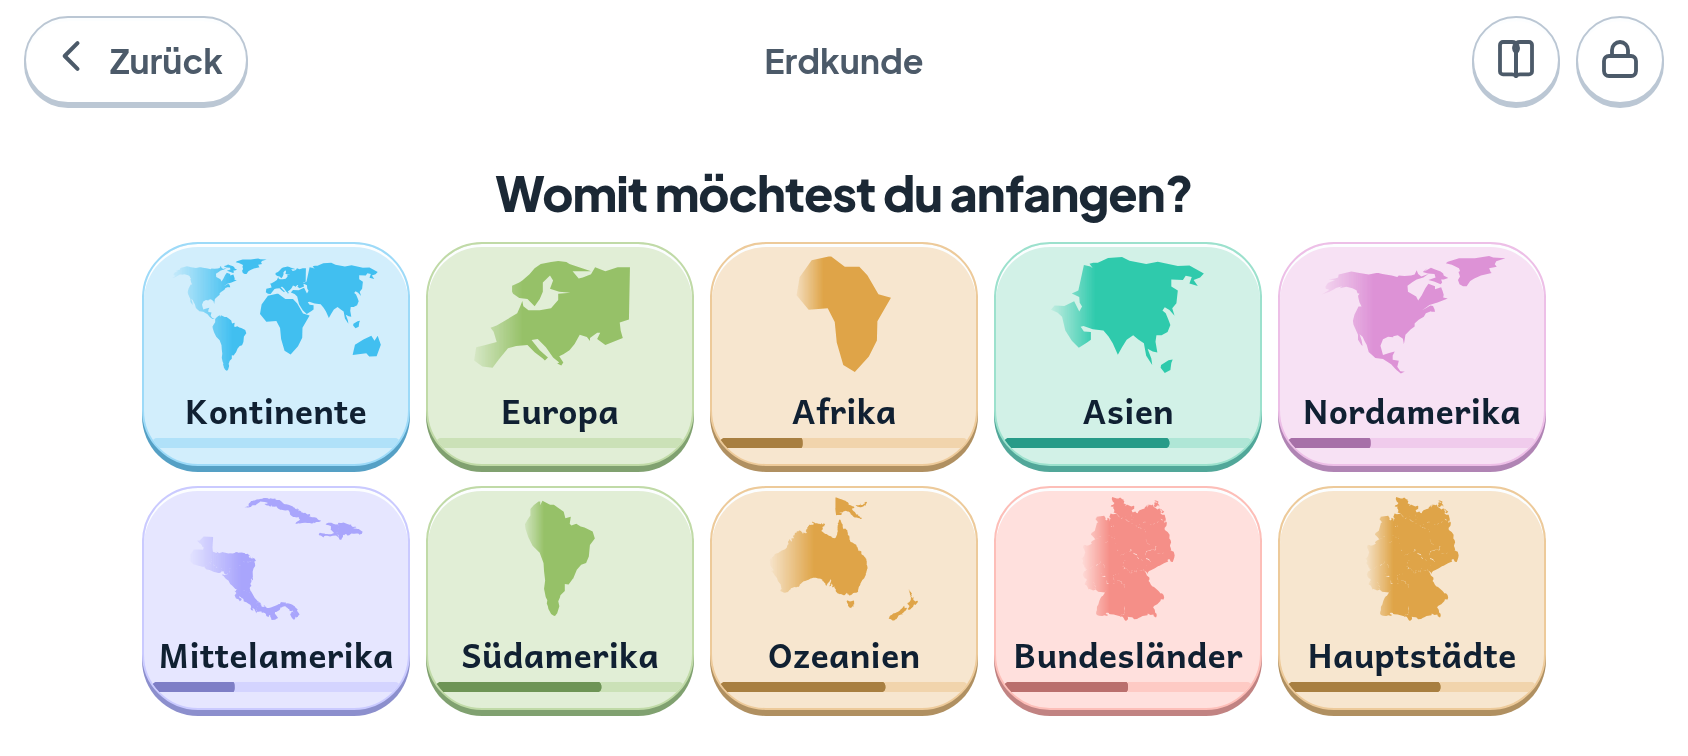
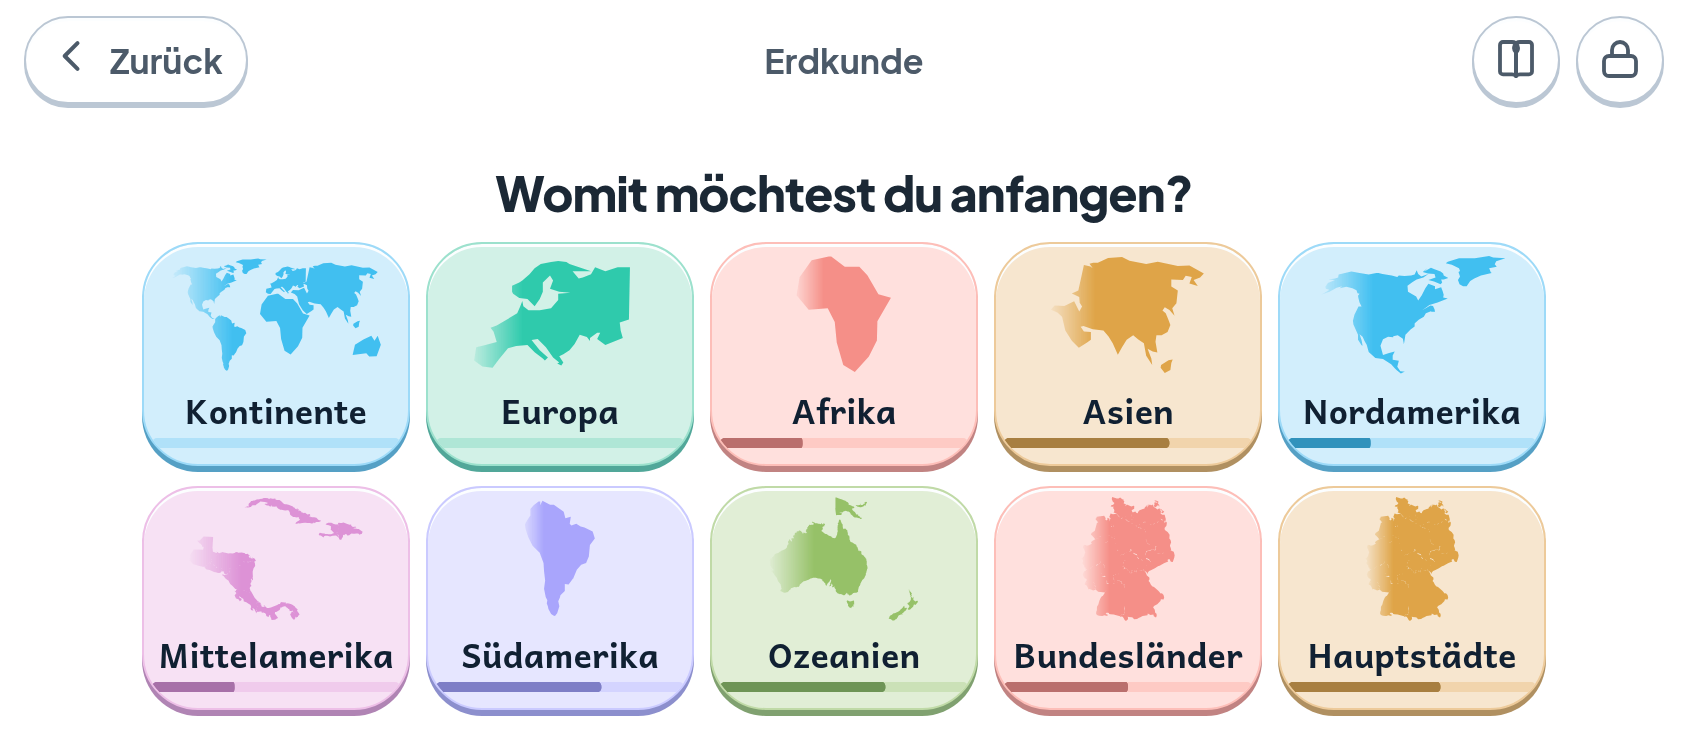
QS-II: der Blick - Kontinentfarben vereinheitlicht, sieben Befunde
Die erste Schleife hat gelesen. Diese hat hingesehen: 37 Aufnahmen aus
tor/vorbilder/ nebeneinandergelegt und nachgemessen. Kein Tor hatte einen
der Befunde je gemeldet, und alle waren gruen - jeder Bildschirm ist fuer
sich in Ordnung. Falsch ist, was ZWISCHEN ihnen steht.

QS8 - EIN KONTINENT HATTE KEINE FARBE. Geflickt.

Die Kachel nahm ihren Ton aus ihrer Position in der Ebenenliste
(`farbe:[3,2,4,7,6][i%5]`), die Weltkarte aus ihrer Position in der
Geometrie (`FL[i%7]`). Zwei Listen, zwei Reihenfolgen, kein Bezug:

  Europa       Kachel gruen     Karte tuerkis
  Afrika       Kachel orange    Karte rot
  Asien        Kachel tuerkis   Karte orange
  Nordamerika  Kachel magenta   Karte blau
  Suedamerika  Kachel gruen     Karte violett
  Australien   Kachel orange    Karte gruen

Sieben von sieben verschieden. Und weil i%5 ueber sieben Eintraege
laeuft, teilten sich zwei Paare einen Ton - Europa und Suedamerika beide
gruen, Afrika und Australien beide orange, auf EINEM Bildschirm
nebeneinander.

Das ist mehr als Kosmetik: eine gleichbleibende Farbe ist ein
Abrufhinweis. Wer "Afrika ist die rote Form" gelernt hat, findet Afrika
auf der Karte wieder - wenn es dort auch rot ist. Sonst hat das Kind
zwei Dinge gelernt statt einem.

KONT_FARBE wird jetzt aus derselben Liste gerechnet, die die Karte
zeichnet. Die Karte gibt den Ton an, nicht die Kachel: sie ist das Bild,
auf das ein Kind am laengsten schaut, und ihre Farben stehen
[…]

diff --git a/prototyp/spiel.js b/prototyp/spiel.js
@@ -876,10 +876,39 @@ const KONT_TITEL = { europa:'Europa', afrika:'Afrika', asien:'Asien',
 // "Südamerika" statt "Länder in Südamerika" - das passt in eine Zeile,
 // bricht nicht mitten im Wort ("Landeshauptstä/dte") und sagt trotzdem,
 // worum es geht. `farbe` gibt jeder Ebene ihren eigenen Ton.
+/* Ein Kontinent hat EINE Farbe - auf der Kachel wie auf der Karte (QS8).
+ *
+ * Bis v358 stand hier `farbe:[3,2,4,7,6][i%5]`: die Kachel bekam ihren Ton
+ * aus ihrer POSITION in der Liste, die Weltkarte aus `FL[i%7]` ueber ihre
+ * eigene, andere Reihenfolge. Ergebnis, nachgemessen: SIEBEN von sieben
+ * Kontinenten hatten auf der Kachel eine andere Farbe als auf der Karte -
+ * und weil `i%5` ueber sieben Eintraege laeuft, teilten sich obendrein
+ * zwei Paare einen Ton (Europa/Suedamerika gruen, Afrika/Australien
+ * orange).
+ *
+ * Warum das mehr ist als Kosmetik: eine gleichbleibende Farbe ist ein
+ * Abrufhinweis. Ein Kind, das „Afrika ist die rote Form" gelernt hat,
+ * findet Afrika auf der Karte wieder - wenn es dort auch rot ist. Ist es
+ * das nicht, hat es zwei Dinge gelernt statt einem.
+ *
+ * Die Karte gibt den Ton an, nicht die Kachel: sie ist das Bild, auf das
+ * ein Kind am laengsten schaut, und ihre Farben stehen nebeneinander (auf
+ * der Kachel steht immer nur eine). Mittelamerika kommt auf der Weltkarte
+ * nicht vor und bekommt den einen Ton, den die sechs anderen frei lassen.
+ *
+ * EINE Quelle, nicht zwei nebeneinander (Regel 6: was zweimal dasteht,
+ * veraltet einmal) - `KONT_FARBE` wird aus derselben Liste gerechnet, die
+ * die Karte zeichnet. Kommt ein Kontinent dazu, wandert seine Kachel von
+ * selbst mit. */
+const KONT_FARBE = Object.fromEntries(
+  D.kontinente.map((k, i) => [k.id, (i % 7) + 1]));
+KONT_FARBE.mittelamerika = KONT_FARBE.mittelamerika
+  ?? [1,2,3,4,5,6,7].find(f => !Object.values(KONT_FARBE).includes(f));
+
 const EBENEN = [
   { id:'kontinente', ueber:'Die Welt', titel:'Kontinente', farbe:5 },
-  ...Object.keys(D.laender).map((k,i)=>({ id:`laender:${k}`, ueber:'Länder in',
-    titel: KONT_TITEL[k] || k, farbe:[3,2,4,7,6][i%5] })),
+  ...Object.keys(D.laender).map((k)=>({ id:`laender:${k}`, ueber:'Länder in',
+    titel: KONT_TITEL[k] || k, farbe: KONT_FARBE[k] })),
   { id:'bundeslaender', ueber:'Deutschland', titel:'Bundesländer',      farbe:1 },
     // "Hauptstädte" statt "Landeshauptstädte": das Wort passt nicht in die
   // Kachel und brach als "Landeshauptstäd/te" um. Die Ueberzeile sagt

diff --git a/docs/Lernkiste-BACKLOG.md b/docs/Lernkiste-BACKLOG.md
@@ -196,7 +196,14 @@ Ein Blick, keine Suche. Die Blöcke darunter sagen, was jeder Punkt ist.
 | 7 | **N2b** Der Klassifikator als Auffangnetz | Fiona | mittel | mittel | echte Züge |
 | 8 | **B3r** Nachbarn · größer/kleiner · Puzzle · Steckbrief | Lea | mittel | mittel | je Form einzeln |
 | 9 | **Q24** „Kontinentumriss" ist eine Zusage | nur ich | gering | mittel | Weg 2 verworfen (Q25) |
-| 10 | **D1** Ein Begleiter | Fiona | mittel | groß | Bilder — also ihr |
+| 10 | **G14** Der Lohn: Treffer und Rundenende bekommen einen Augenblick | Fiona, Lea | **hoch** | mittel | Blick am Gerät |
+| 11 | **G15** Das Forscherbuch füllt seine Seite (37 % leeres Band) | Fiona, Lea | hoch | mittel | — |
+| 12 | **G16** Werkzeugspalte: sechs Elemente, EINE Gestaltungssprache | Fiona, Lea | mittel | mittel | — |
+| 13 | **G17** Die Antwort ist wichtiger als das Mikrofon — Rangfolge drehen | Fiona | mittel | klein | — |
+| 14 | **G18** Keine toten Knöpfe im Lob | alle | gering | klein | — |
+| 15 | **QS9** `ansicht` leert `tor/abweichungen/` vor jedem Lauf | nur ich | mittel | klein | — |
+| 16 | **QS3** „Ton als Gegenstand" braucht ein Tor, sobald Englisch steht | nur ich | mittel | klein | E3 |
+| 17 | **D1** Ein Begleiter | Fiona | mittel | groß | Bilder — also ihr |
 
 **Die Rangliste trägt ab hier NUR NOCH OFFENES.** Bis v352 standen hier
 dreißig Zeilen, davon zwanzig durchgestrichen — und trotzdem zweimal
@@ -3980,3 +3987,149 @@ noetig wurden. Die Torkette ist gruen, `inhalt` (9 Tore), `regeln`,
 `anker`, `doku` ebenfalls. Der Silhouettenbedarf der vierten Welt
 (`silhouette('englisch')`) war im Konzept nicht genannt und steht jetzt
 in § 6 — eine Welt ohne Zeichen waere eine leere Kachel.
+
+---
+
+## QS-II · Der Blick — Spielgefuehl, Layout, Lernwirkung
+
+**Die erste Schleife hat gelesen. Diese hat hingesehen.** 37 Aufnahmen
+aus `tor/vorbilder/`, nebeneinandergelegt und nachgemessen. Kein Tor
+hatte einen der folgenden Befunde je gemeldet, und alle waren gruen:
+jeder Bildschirm ist fuer sich in Ordnung. Falsch ist, was zwischen
+ihnen steht (Regel 4: kein Tor ersetzt den Blick).
+
+### QS8 · Ein Kontinent hatte keine Farbe — GEFLICKT
+
+Die Kachel nahm ihren Ton aus ihrer Position in der Ebenenliste
+(`farbe:[3,2,4,7,6][i%5]`), die Weltkarte aus ihrer Position in der
+Geometrie (`FL[i%7]`). Zwei Listen, zwei Reihenfolgen, kein Bezug.
+Nachgemessen:
+
+| Kontinent | Kachel (vorher) | Karte |
+|---|---|---|
+| Europa | `--f3` grün | `--f4` türkis |
+| Afrika | `--f2` orange | `--f1` rot |
+| Asien | `--f4` türkis | `--f2` orange |
+| Nordamerika | `--f7` magenta | `--f5` blau |
+| Südamerika | `--f3` grün | `--f6` violett |
+| Australien | `--f2` orange | `--f3` grün |
+
+**Sieben von sieben verschieden.** Und weil `i%5` ueber sieben Eintraege
+laeuft, teilten sich zwei Paare einen Ton: Europa und Suedamerika beide
+gruen, Afrika und Australien beide orange — auf **einem** Bildschirm
+nebeneinander.
+
+Warum das mehr ist als Kosmetik: eine gleichbleibende Farbe ist ein
+Abrufhinweis. Wer „Afrika ist die rote Form" gelernt hat, findet Afrika
+auf der Karte wieder — wenn es dort auch rot ist. Sonst hat das Kind
+zwei Dinge gelernt statt einem, und keines davon hilft beim anderen.
+
+*Geflickt:* `KONT_FARBE` wird aus derselben Liste gerechnet, die die
+Karte zeichnet. Die Karte gibt den Ton an, nicht die Kachel — sie ist
+das Bild, auf das ein Kind am laengsten schaut, und ihre Farben stehen
+nebeneinander. Mittelamerika kommt auf der Weltkarte nicht vor und
+bekommt den einen Ton, den die sechs anderen frei lassen. Jetzt: 7 von 7
+gleich, 0 Dopplungen. Neues Tor `farben`, mit Gegenprobe.
+
+**Und das Tor waere fast wertlos gewesen.** Der erste Anlauf rechnete
+beide Seiten aus `I.KONTINENTE` aus — dieselbe Liste, mit sich selbst
+verglichen. Es konnte nie rot werden. **Gemeldet hat das die
+Gegenprobe**, nicht ich: sie schlug nicht an, und das war der Hinweis.
+Jetzt liest das Tor den Quelltext, in dem die Kachelfarbe entsteht
+(Regel 14: das Modell darf nicht vom Gemessenen abhaengen).
+
+### QS9 · `tor/abweichungen/` wird nie geleert — und hat mich in die Irre gefuehrt
+
+Beim Nachmessen zaehlte ich **32 geaenderte Bildschirme** und schloss
+daraus, die eingecheckten Vorbilder seien veraltet. Falsch. Das
+Verzeichnis wird nie geraeumt; 29 der Dateien waren Altbestand aus
+frueheren Laeufen. Der echte Befund war **3**, und genau die drei, die
+Kontinentkacheln zeigen.
+
+Ich bin auf mein eigenes Werkzeug hereingefallen und habe es erst
+gemerkt, als ich den Gegenversuch fuhr (dieselbe Messung **ohne** meine
+Aenderung — dieselben 13 Treffer, also konnten sie nicht von mir sein).
+*Wer eine Wirkung misst, schaltet sie zuerst ab* — hier hat genau das
+den Denkfehler aufgedeckt.
+
+*Offen:* `ansicht` soll `tor/abweichungen/` zu Beginn leeren. Ein
+Diff-Verzeichnis, das Altes behaelt, meldet Befunde, die es nicht gibt.
+
+### QS10 · Der naechtliche Probenlauf verliert seinen Nachweis bei jedem Push — GEFLICKT
+
+Der angestossene volle Lauf war **gruen: 276 Gegenproben, alle schlagen
+an, 0 beweisen nichts, 0 kamen nicht an.** Trotzdem rot gemeldet — nicht
+an einer Probe, sondern am `git push`: ich hatte waehrend der halben
+Stunde selbst gepusht. Der Stand von 276 Nachweisen wurde verworfen.
+
+*Geflickt:* `git pull --rebase` vor dem Schieben, dreimal versucht. Der
+Auftrag fasst genau eine Datei an, die sonst niemand schreibt.
+
+### QS11 · Leerraum — gemessen, nicht geschaetzt
+
+Groesstes **zusammenhaengendes leeres Band**, als Anteil der Bildhoehe:
+
+| Bildschirm | leeres Band |
+|---|---|
+| **Forscherbuch** | **37 %** |
+| Pause | 31 % |
+| Profilwahl | 23 % |
+| Endbildschirm | 18 % |
+| Weltenwahl | 13 % |
+| Ebenenwahl | 9 % |
+
+Auf dem Zielgeraet (390 Punkte hoch) sind 37 % **144 Punkte am Stueck,
+in denen nichts steht** — und zwar auf dem Bildschirm, der die Sammlung
+zeigt, also den einzigen langfristigen Anreiz der App.
+
+Die Ebenenwahl mit 9 % zeigt, dass es anders geht: zehn Kacheln, dicht,
+ausgewogen, jede mit Umriss, Farbe, Name und Balken. **Sie ist der
+Massstab, den die anderen Bildschirme nicht erreichen.**
+
+### QS12 · Der Lohn ist die schwaechste Stelle der App
+
+Was beim Treffer passiert: das Wort **„Klasse!"** wird gruen. Sonst
+nichts. Beim Rundenende: drei Sterne und **„Geschafft!"** in Beinahe-
+Schwarz.
+
+Die Vorbilder aus dem Genre setzen dort ihre Mittel ein — Duolingo und
+Khan Academy Kids arbeiten mit Figur, Bewegung und Klang genau in diesem
+Augenblick, und zwar nicht aus Spielerei: die unmittelbare, deutliche
+Rueckmeldung ist der Teil, der Kinder wiederkommen laesst.
+
+Hier ist der Augenblick **still und statisch**. Die App ist sauber,
+ruhig und erwachsen — und genau deshalb fehlt ihr der Moment, in dem ein
+sechsjaehriges Kind merkt, dass es etwas geschafft hat.
+
+*Das ist kein Fehler, den ein Tor findet.* Es ist eine Entscheidung, die
+nie getroffen wurde.
+
+### QS13 · Umgekehrte Rangfolge auf dem Spielbildschirm
+
+Der **saettigste** Punkt des Bildschirms ist der Mikrofonknopf: kraeftig
+blau, gefuellt, mit Ring. Die **Antwortknoepfe** — die eigentliche
+Aufgabe — sind fast weiss mit duennem Rand.
+
+Das Auge geht zuerst zum Werkzeug, nicht zur Frage. Bei einem Kind, das
+noch nicht liest und ohnehin nur Formen und Farben hat, ist das die
+falsche Reihenfolge.
+
+Dazu die **Werkzeugspalte**: Lupe auf, Lupe zu, „Weiß ich nicht", „Lieber
+antippen", Mikrofon, Ton aus — sechs Bedienelemente in **drei**
+Gestaltungssprachen (Kreisknopf, Textzeile mit Trennstrich, grosser
+gefuellter Kreis). Im Lob-Bild ordnen sie sich zu einem schiefen Raster
+um. Sie sieht aus wie eine Schublade, nicht wie eine Spalte.
+
+### QS14 · Tote Knoepfe im Lob
+
+Nach der richtigen Antwort bleiben die uebrigen Antwortknoepfe stehen und
+sehen weiter antippbar aus. Die Runde ist da schon weiter. Drei Knoepfe,
+die etwas versprechen und nichts tun.
+
+### Was daraus wird
+
+QS8 und QS10 sind geflickt und eingecheckt. Der Rest sind **Entwuerfe,
+keine Flicken** — sie aendern das Gesicht der App, und das gehoert
+angesehen, bevor sie gebaut werden: kein Tor ersetzt den Blick (Regel 4),
+und ein Gesicht laesst sich nicht ausrechnen. Sie stehen als **G14 bis
+G18** in der Rangliste.

diff --git a/CLAUDE.md b/CLAUDE.md
@@ -179,7 +179,7 @@ npm run ohneschrift  AUDIT A: geht Fionas Weg auf dem Zielgerät ab und
 ```
 
 Kette: `rhythmus` → `inhalt` · `saetze` · `topologie` · `beruehrung` · `marken` · `abzeichen` ·
-`schrift` · `symbol` · `doku` → `regeln` → `doppelt` → `spielprobe` → `schreiben` → `vergleich` →
+`schrift` · `symbol` · `farben` · `doku` → `regeln` → `doppelt` → `spielprobe` → `schreiben` → `vergleich` →
 `gleichlauf` → `bauen` →
 `budget` · `anker` → `passt` → `lesbarkeit` → `ziehen` → `ansicht` → `pwa` ·
 `offline` → `smoke`.
